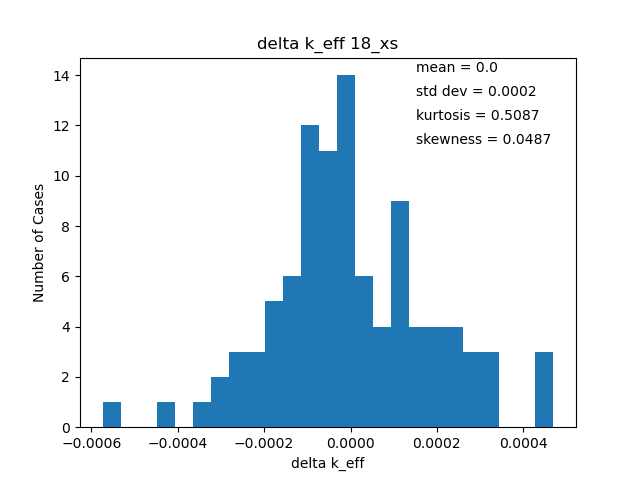
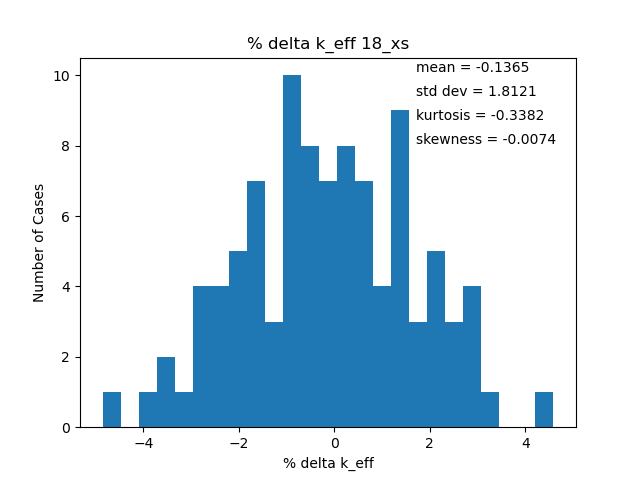
Olle kickad

diff --git a/sheesh3.py b/sheesh3.py
@@ -335,7 +335,7 @@ def HMCcalc(reaction_dict, reaction_ind, directory, central_file, interp_type):
                 continue
             elif ".ace" in filename:
                 xs, _ = cross_section(reaction_ind, filename, directory)
-                delta_k_eff = np.dot(sens_vec_values_adjusted,(xs.transpose()-central_xs.transpose()))
+                delta_k_eff = np.dot(sens_vec_values_adjusted,((xs.transpose()-central_xs.transpose())/central_xs.transpose()*100))
                 results_vector.append(delta_k_eff)
                 #print(f"Our scalar is {delta_k_eff}")
             else:
@@ -365,8 +365,8 @@ def main():
         plt.hist(results_vector, bins=25, density=False)
 
         # Set the plot title and axis labels
-        plt.title(f'delta k_eff {reaction_ind}_xs')
-        plt.xlabel('delta k_eff')
+        plt.title(f'% delta k_eff {reaction_ind}_xs')
+        plt.xlabel('% delta k_eff')
         plt.ylabel('Number of Cases')
         plt.figtext(.65, .85, f"mean = {round(mean,4)}")
         plt.figtext(.65, .8, f"std dev = {round(std_dev,4)}")
